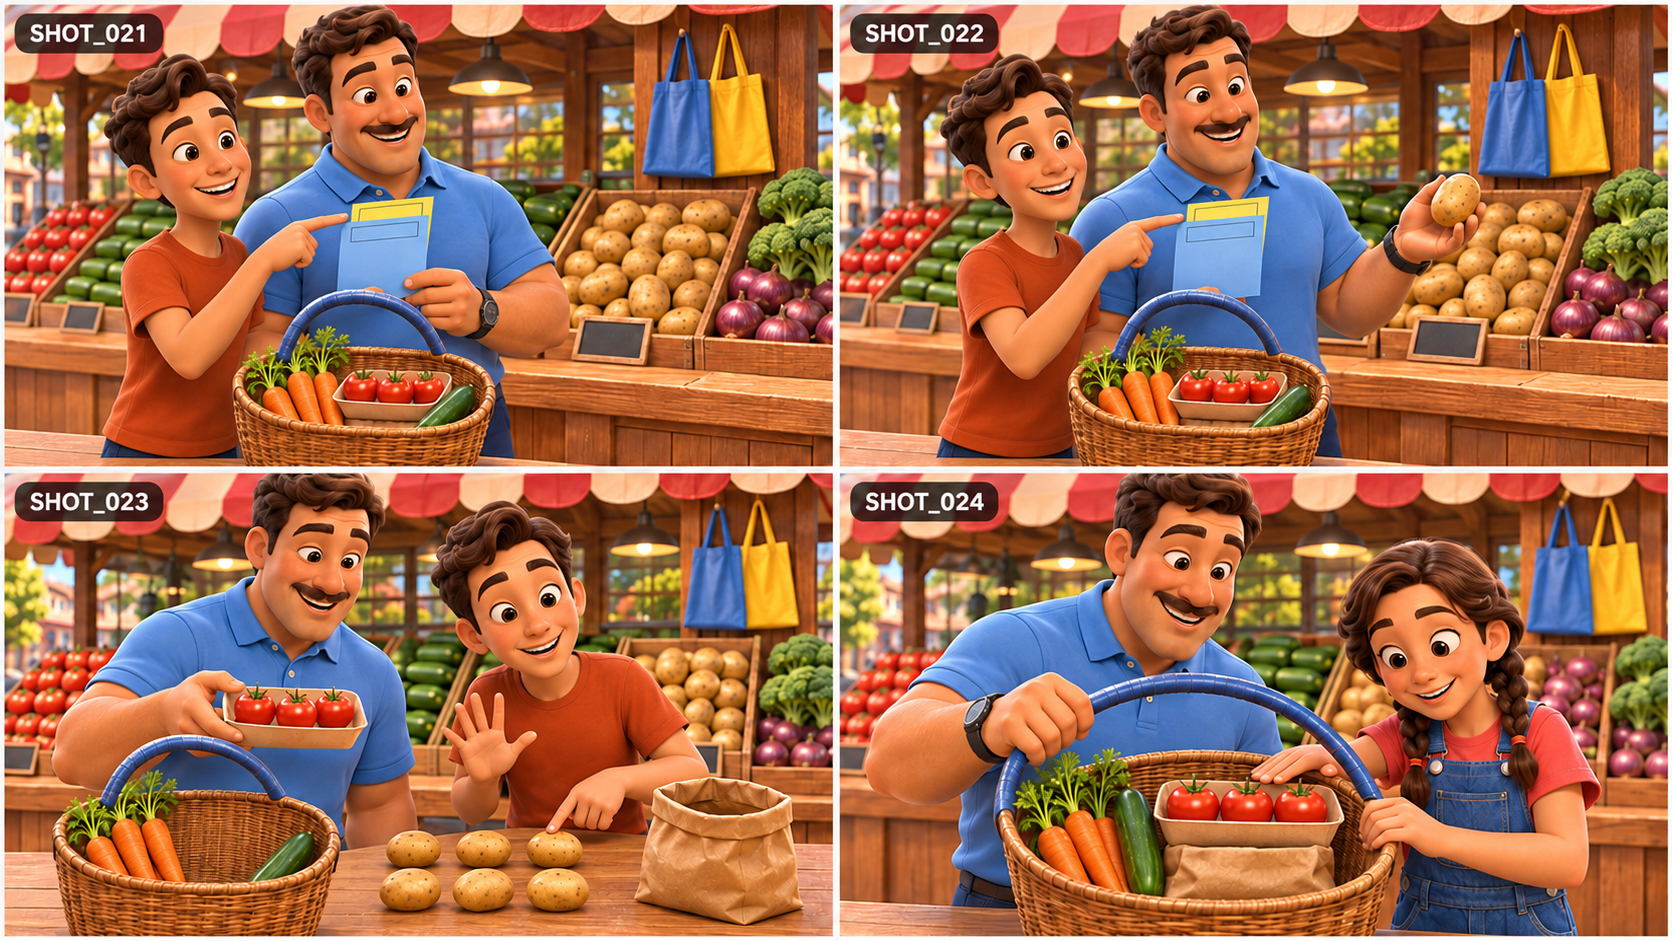
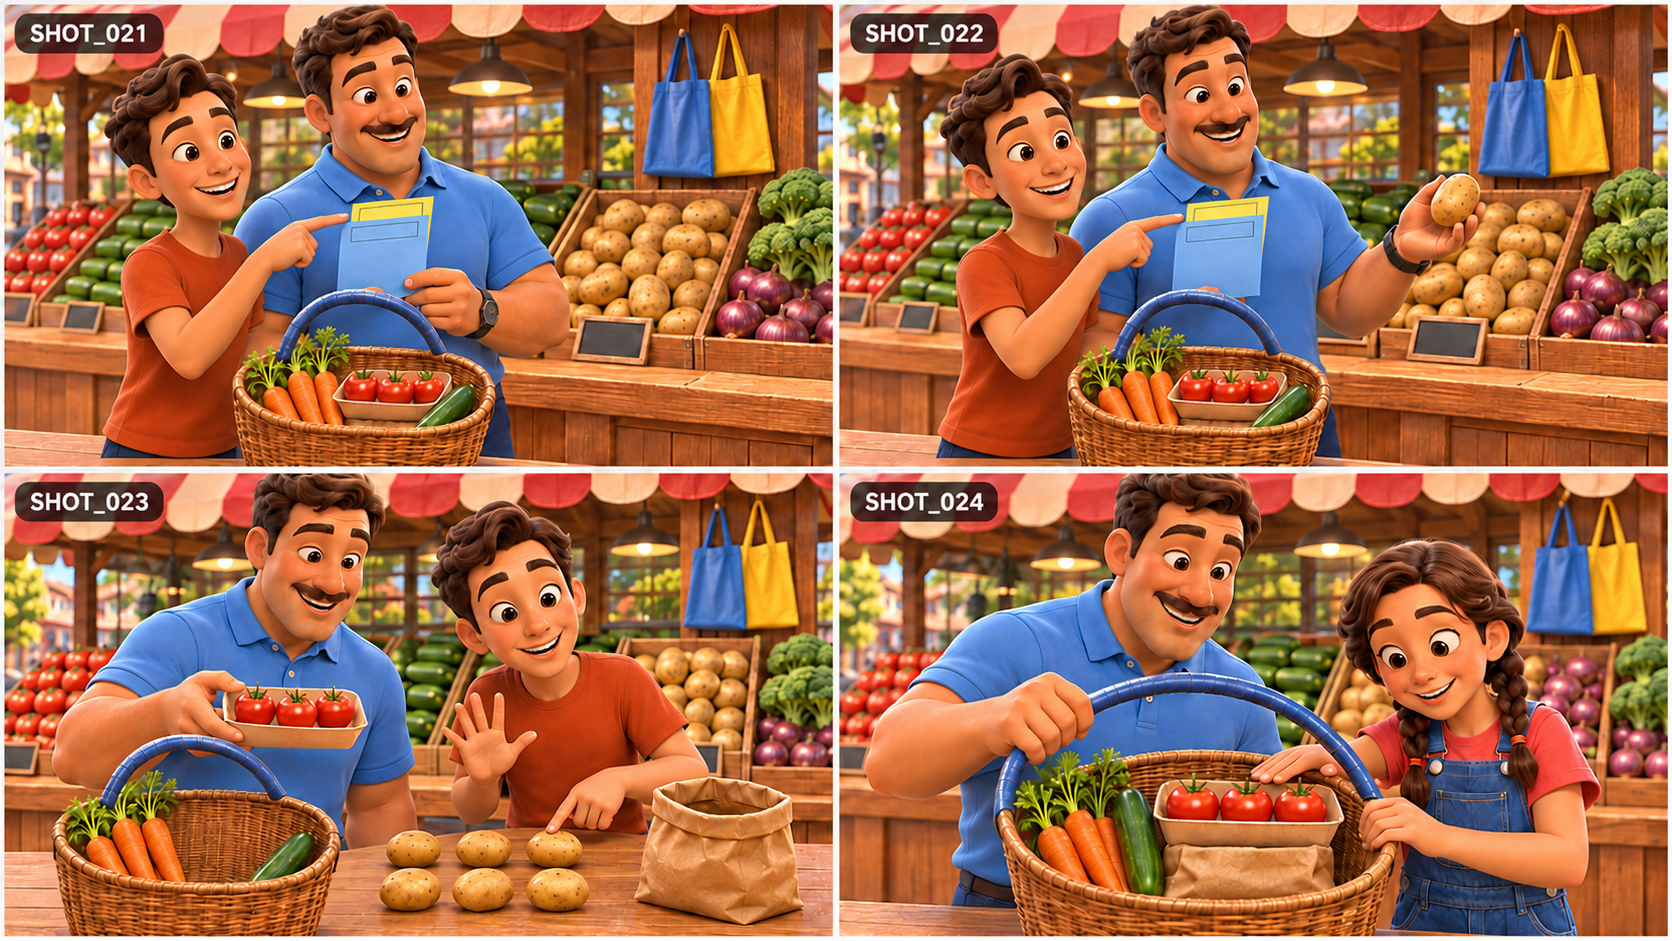
Correct Episode 01 shot 024 watch wrist in storyboard pixels

diff --git a/docs/STORYBOARD_REPAIR_LOG.md b/docs/STORYBOARD_REPAIR_LOG.md
@@ -11,7 +11,8 @@ The active request is to fix the selected storyboard PNGs themselves. Video-prom
 | 09 / BOARD_15 | Saucer-only drainage and plant labels restored;059/060 transfers now include gloves and saucers.057 Max gloves and058 paved-path blocking remain unresolved. | [Selected sheet](../Episode_09/assets/storyboards/BOARD_15.png) · [Correction record](../artwork_qa/records/ep09-board15-drainage-and-label-correction.json) |
 | 09 / BOARD_15 | Remaining057 glove and058 paved-path defects corrected; all four labelled pot/saucer panels rechecked. | [Selected sheet](../Episode_09/assets/storyboards/BOARD_15.png) · [Correction record](../artwork_qa/records/ep09-board15-gloves-and-path-correction.json) |
 | 08 / BOARD_08 | SHOT_029 first-cube pointing corrected; socks, flat punched tabs and six-cube inventory retained. | [Selected sheet](../Episode_08/assets/storyboards/BOARD_08.png) · [Correction record](../artwork_qa/records/ep08-board08-first-cube-pointing-correction.json) |
+| 01 / BOARD_06 | SHOT_024 wrong-right-wrist watch removed; hidden canonical left wrist and all four labelled panels rechecked. | [Selected sheet](../Episode_01/assets/storyboards/BOARD_06.png) · [Correction record](../artwork_qa/records/ep01-board06-right-wrist-watch-correction.json) |
 
-Current QA inventory: **319 shots with major visual defects; 481 awaiting human review**. Selected repairs remove only the visually verified discrepancies recorded above. Creator acceptance and individual motion-frame approval remain pending. Other storyboard defects have not been declared fixed.
+Current QA inventory: **318 shots with major visual defects; 482 awaiting human review**. Selected repairs remove only the visually verified discrepancies recorded above. Creator acceptance and individual motion-frame approval remain pending. Other storyboard defects have not been declared fixed.
 
 Each selected edit preserves the prior image through its parent Git commit, retains the returned ImageGen source, updates all four panel evidence hashes and records what was visually confirmed. The Episode 01 printed-label audit is refreshed against the new pixels. Corrections are committed and pushed as checkpoints before requesting the next image.

diff --git a/Episode_01/assets/storyboards/SHOT_LABEL_AUDIT.md b/Episode_01/assets/storyboards/SHOT_LABEL_AUDIT.md
@@ -11,7 +11,7 @@ Refresh after changing a board: `python Episode_01/audit_labels.py`. The local t
 | BOARD_03 | SHOT_009, SHOT_010, SHOT_011, SHOT_012 | SHOT_009, SHOT_010, SHOT_011, SHOT_012 | PASS | fd40ceda7fc1ae8b520a73c8b6bb6923595e1f189d2b9beeee90b49fb05d23d3 |
 | BOARD_04 | SHOT_013, SHOT_014, SHOT_015, SHOT_016 | SHOT_013, SHOT_014, SHOT_015, SHOT_016 | PASS | b1cd3907a5e5b67d6d751c936e38cb3073c1a942ac0f9dc671099f92c4f83d05 |
 | BOARD_05 | SHOT_017, SHOT_018, SHOT_019, SHOT_020 | SHOT_017, SHOT_018, SHOT_019, SHOT_020 | PASS | 5c5fd5197cc2c150639bdddd6451c677765696f6d1d54fb95c715e1d706e567c |
-| BOARD_06 | SHOT_021, SHOT_022, SHOT_023, SHOT_024 | SHOT_021, SHOT_022, SHOT_023, SHOT_024 | PASS | 991f98c67d789d9331daca8a06e50ca8e315cf2e4bf00c1297bc3a2219c0f808 |
+| BOARD_06 | SHOT_021, SHOT_022, SHOT_023, SHOT_024 | SHOT_021, SHOT_022, SHOT_023, SHOT_024 | PASS | eb03b4ee351d8b81cbd5cacabcf47b40d9ea36a41c54da86ae0de36295f01a6f |
 | BOARD_07 | SHOT_025, SHOT_026, SHOT_027, SHOT_028 | SHOT_025, SHOT_026, SHOT_027, SHOT_028 | PASS | 88272548f51a0607302a636d0446fc5c55acdc3d2b8c6ccce269c45f55ae3f42 |
 | BOARD_08 | SHOT_029, SHOT_030, SHOT_031, SHOT_032 | SHOT_029, SHOT_030, SHOT_031, SHOT_032 | PASS | e9dc82f3f128ec69cd7229b19464446b652a5cca9ced96a866915e49561298f8 |
 | BOARD_09 | SHOT_033, SHOT_034, SHOT_035, SHOT_036 | SHOT_033, SHOT_034, SHOT_035, SHOT_036 | PASS | 0da4ee32a0e64eb7082857ba5669fa3c66b76d892a136ccc9ca7ec6167543e57 |

diff --git a/CURRENT_PRODUCTION_STATUS.md b/CURRENT_PRODUCTION_STATUS.md
@@ -4,7 +4,7 @@ The [master audit](docs/AUDIT_EP01_EP10.md) records the current panel findings a
 
 ## Active storyboard repairs — 2026-11-20
 
-The creator has requested fixes to the actual storyboard images and withdrawn the video-prompt workaround. The [image repair log](docs/STORYBOARD_REPAIR_LOG.md) records selected PNG changes and remaining defects. Selected corrections and any remaining panel issues are recorded in the repair log; creator approval remains pending. Current QA records list 319 major visual discrepancies and 481 shots awaiting human review.
+The creator has requested fixes to the actual storyboard images and withdrawn the video-prompt workaround. The [image repair log](docs/STORYBOARD_REPAIR_LOG.md) records selected PNG changes and remaining defects. Selected corrections and any remaining panel issues are recorded in the repair log; creator approval remains pending. Current QA records list 318 major visual discrepancies and 482 shots awaiting human review.
 
 ## Audit branch validation — 2026-11-19
 
